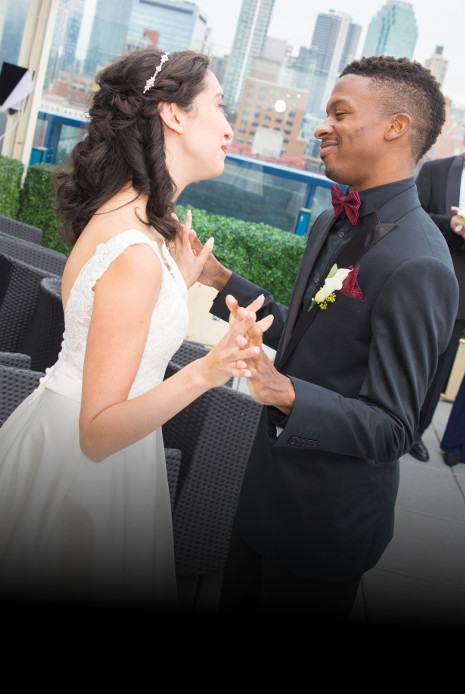
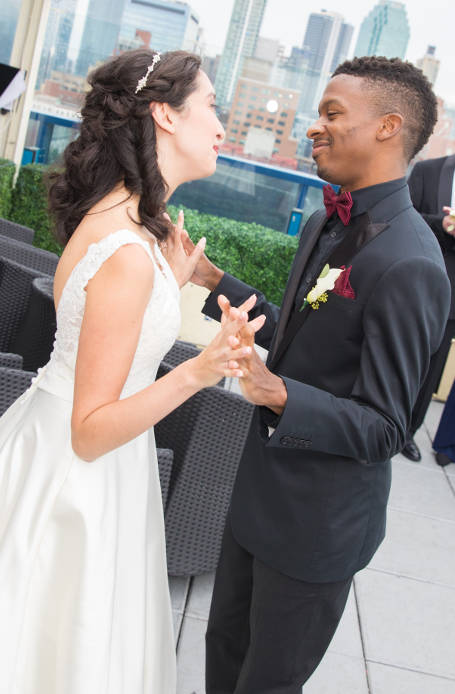
Resized images in portfolio page.

diff --git a/pages/portfolio.html b/pages/portfolio.html
@@ -7,27 +7,30 @@
       <h1 style="color: white;font-weight: 600;letter-spacing: 10px;" class="text-center display-3">PORTFOLIO</h1>
     </div>
     <div class="row justify-content-center">
-        <div class="col-6 col-sm-4 col-xl-3 card black-bg" style="border: 0;">
-          <a href="#/kat-james">
-            <img class="card-img img-fluid card-img-style" src="./img/kj_694.jpg">
-            <div class="card-img-overlay d-flex h-100 justify-content-center align-items-center">
-              <h1 class="card-title quote-sig text-center">Kat + James</h1>
-            </div>
-          </a>
-        </div>
-      <div class="col-6 col-sm-4 col-xl-3 card black-bg" style="border: 0;">
-        <a href="#/event-decor">
-          <img class="card-img img-fluid card-img-style" src="./img/dining_room.jpg">
+      <div class="col-6 col-sm-4 col-xl-3 card black-bg">
+        <a href="#/kat-james">
+          <img class="card-img img-fluid card-img-style" src="./img/kj_694.jpg">
           <div class="card-img-overlay d-flex h-100 justify-content-center align-items-center">
-            <h1 class="card-title quote-sig text-center">Decor</h1>
+            <!--h1 class="card-title quote-sig text-center">Kat + James</h1-->
+            <h3 class="card-title text-center" style="color: white;letter-spacing: 10px;">KAT + JAMES</h3>
           </div>
         </a>
       </div>
-      <div class="col-6 col-sm-4 col-xl-3 card black-bg" style="border: 0">
+      <div class="col-6 col-sm-4 col-xl-3 card black-bg">
+        <a href="#/event-decor">
+          <img class="card-img img-fluid card-img-style" src="./img/dining_room.jpg">
+          <div class="card-img-overlay d-flex h-100 justify-content-center align-items-center">
+            <!--h1 class="card-title quote-sig text-center">Decor</h1-->
+            <h3 class="card-title text-center" style="color: white;letter-spacing: 10px;">DECOR</h3>
+          </div>
+        </a>
+      </div>
+      <div class="col-6 col-sm-4 col-xl-3 card black-bg">
         <a href="#/jess-marc">
           <img class="card-img img-fluid card-img-style" src="./img/mj_694.jpg">
           <div class="card-img-overlay d-flex h-100 justify-content-center align-items-center">
-            <h1 class="card-title quote-sig text-center">Jessica + Marc</h1>
+            <!--h1 class="card-title quote-sig text-center">Jessica + Marc</h1-->
+            <h3 class="card-title text-center" style="color: white;letter-spacing: 8px;">JESSICA + MARC</h3>
           </div>
         </a>
       </div>

diff --git a/pages/events.html b/pages/events.html
@@ -11,7 +11,7 @@
 		  		<div class="col-11 col-md-4 col-xl-3 card black-bg" style="border: 0;">
 		  			<img class="card-img img-fluid card-img-style" src="./img/beach.jpg">
 		  			<div class="card-img-overlay d-flex h-100 justify-content-center" style="position: absolute;top: 45px;">
-		  				<h1 class="card-title display-2 quote-sig">Consult</h1>
+		  				<h1 class="card-title display-4" style="letter-spacing: 10px;">CONSULT</h1>
 		  			</div>
 		  			<div class="card-img-overlay d-flex h-100 align-items-end text-center">
 		  				<p style="font-weight: 300;">If you are stuck with a particular element of an event, need additional help, or want to weigh your company's options when it comes to future events and entertainment. Your needs will be evaluated to provide tailored options before you decide on an event.</p>
@@ -20,7 +20,7 @@
 		  		<div class="col-11 col-md-4 col-xl-3 card black-bg" style="border: 0;">
 		  			<img class="card-img img-fluid card-img-style" src="./img/dining_room.jpg">
 		  			<div class="card-img-overlay d-flex h-100 justify-content-center" style="position: absolute;top: 45px;">
-		  				<h1 class="card-title display-2 quote-sig">Manage</h1>
+		  				<h1 class="card-title display-4" style="letter-spacing: 10px;">MANAGE</h1>
 		  			</div>
 		  			<div class="card-img-overlay d-flex h-100 align-items-end text-center">
 		  				<p style="font-weight: 300;">From concept to execution, all aspects of the events process will be managed.  This option is ideal for corporations or mid-size to small businesses who do not have an events team or lack the internal resources to manage larger or complicated events.</p>
@@ -29,7 +29,7 @@
 		  		<div class="col-11 col-md-4 col-xl-3 card black-bg" style="border: 0">
 		  			<img class="card-img img-fluid card-img-style" src="./img/park_crowd.jpg">
 		  			<div class="card-img-overlay d-flex h-100 justify-content-center" style="position: absolute;top: 45px;">
-		  				<h1 class="card-title display-3 quote-sig">Coordinate</h1>
+		  				<h1 class="card-title display-4" style="letter-spacing: 6px;">COORDINATE</h1>
 		  			</div>
 		  			<div class="card-img-overlay d-flex h-100 align-items-end text-center">
 		  				<p style="font-weight: 300;">The event is planned, all you need is someone to put those plans into action.  Day of coordinating allows you to hand over the responsibility to execute the logistics the day of.  This includes a pre-event meeting to provide the details of the event.</p>

diff --git a/css/events.css b/css/events.css
@@ -3,7 +3,7 @@
 	height: 100%;
 	object-fit: cover;
 	overflow: hidden;
-	filter: opacity(.7);
+	filter: opacity(.6);
 	padding-top: 10px;
 	padding-bottom: 10px;
 	border-radius: 20px;
